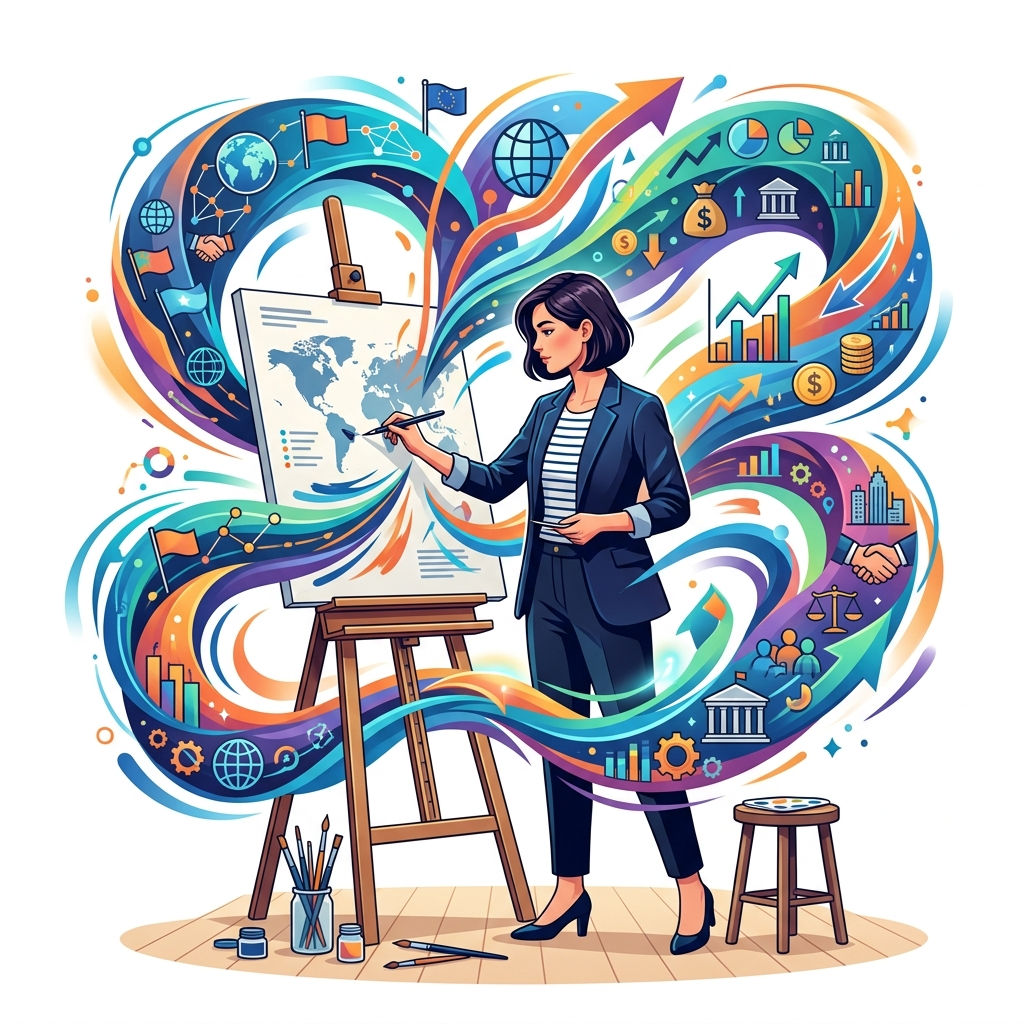
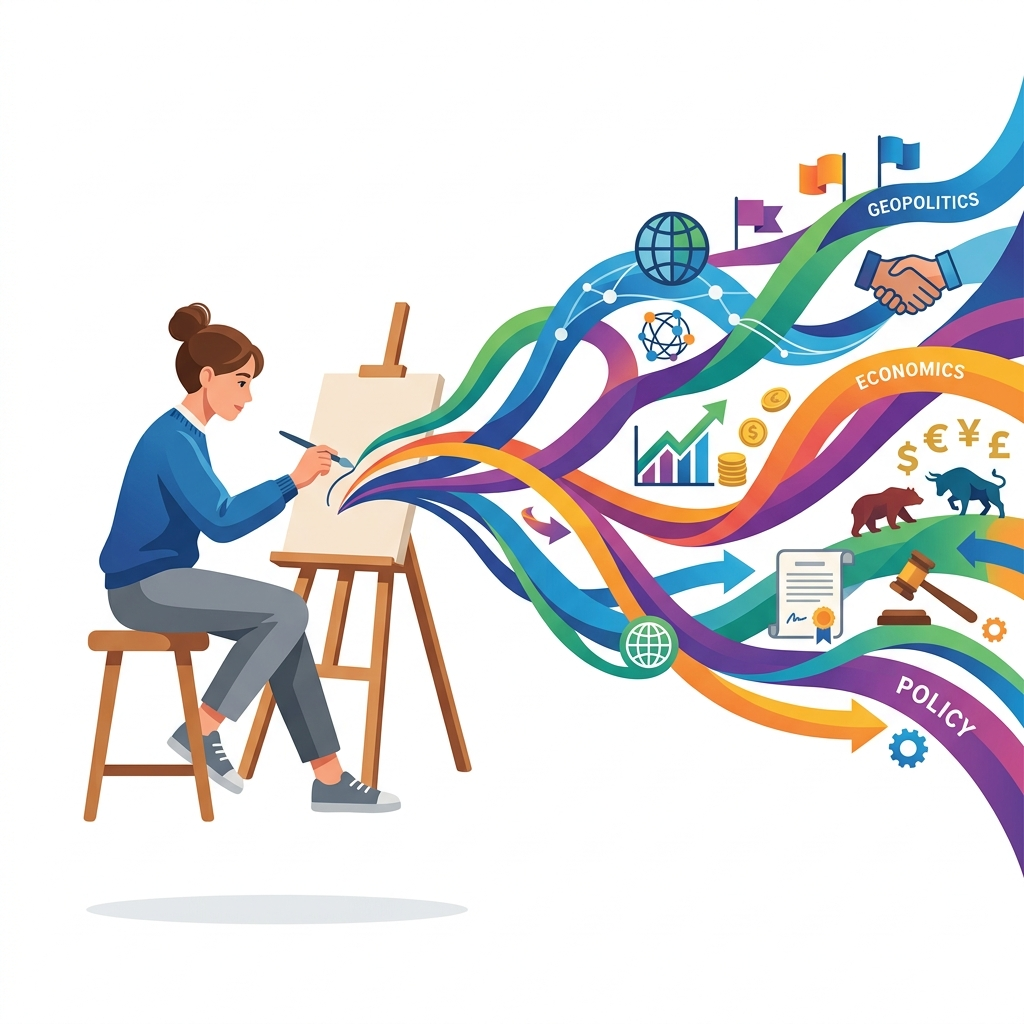
Update illustration to pure white background and remove CSS mask for perfect background blending

diff --git a/components/home/StatementCanvas.tsx b/components/home/StatementCanvas.tsx
@@ -46,25 +46,20 @@ export function StatementCanvas() {
 
         {/* ── Illustration ── */}
         <motion.div 
-          className="relative w-full max-w-5xl aspect-[4/3] sm:aspect-[16/9] flex items-center justify-center pointer-events-none select-none mix-blend-multiply"
-          initial={{ opacity: 0, scale: 0.95, y: 20 }}
-          whileInView={{ opacity: 1, scale: 1, y: 0 }}
+          className="relative w-full max-w-6xl aspect-[4/3] sm:aspect-[16/9] flex items-center justify-center pointer-events-none select-none mix-blend-multiply md:scale-105 mt-4"
+          initial={{ opacity: 0, y: 30 }}
+          whileInView={{ opacity: 1, y: 0 }}
           viewport={{ once: true, margin: "-100px" }}
-          transition={{ duration: 0.8, delay: 0.2, ease: "easeOut" }}
+          transition={{ duration: 1, delay: 0.2, ease: "easeOut" }}
         >
-          {/* A radial gradient mask guarantees the outer edges gracefully fade out into the white background, ensuring total immersion */}
-          <div 
-            className="absolute inset-0"
-            style={{ 
-              WebkitMaskImage: 'radial-gradient(ellipse at center, black 60%, transparent 100%)',
-              maskImage: 'radial-gradient(ellipse at center, black 60%, transparent 100%)'
-            }}
-          >
+          {/* Using mix-blend-multiply on a pure white image forces all white pixels to become perfectly transparent. 
+              With no mask, the vivid colors and ribbons bleed directly into the section's white background. */}
+          <div className="absolute inset-0">
             <Image
               src="/statement-illustration.jpg"
               alt="An artist drawing geopolitics, economic affairs, and public policy flowing onto a canvas"
               fill
-              className="object-cover object-center"
+              className="object-contain object-center"
               priority
             />
           </div>
